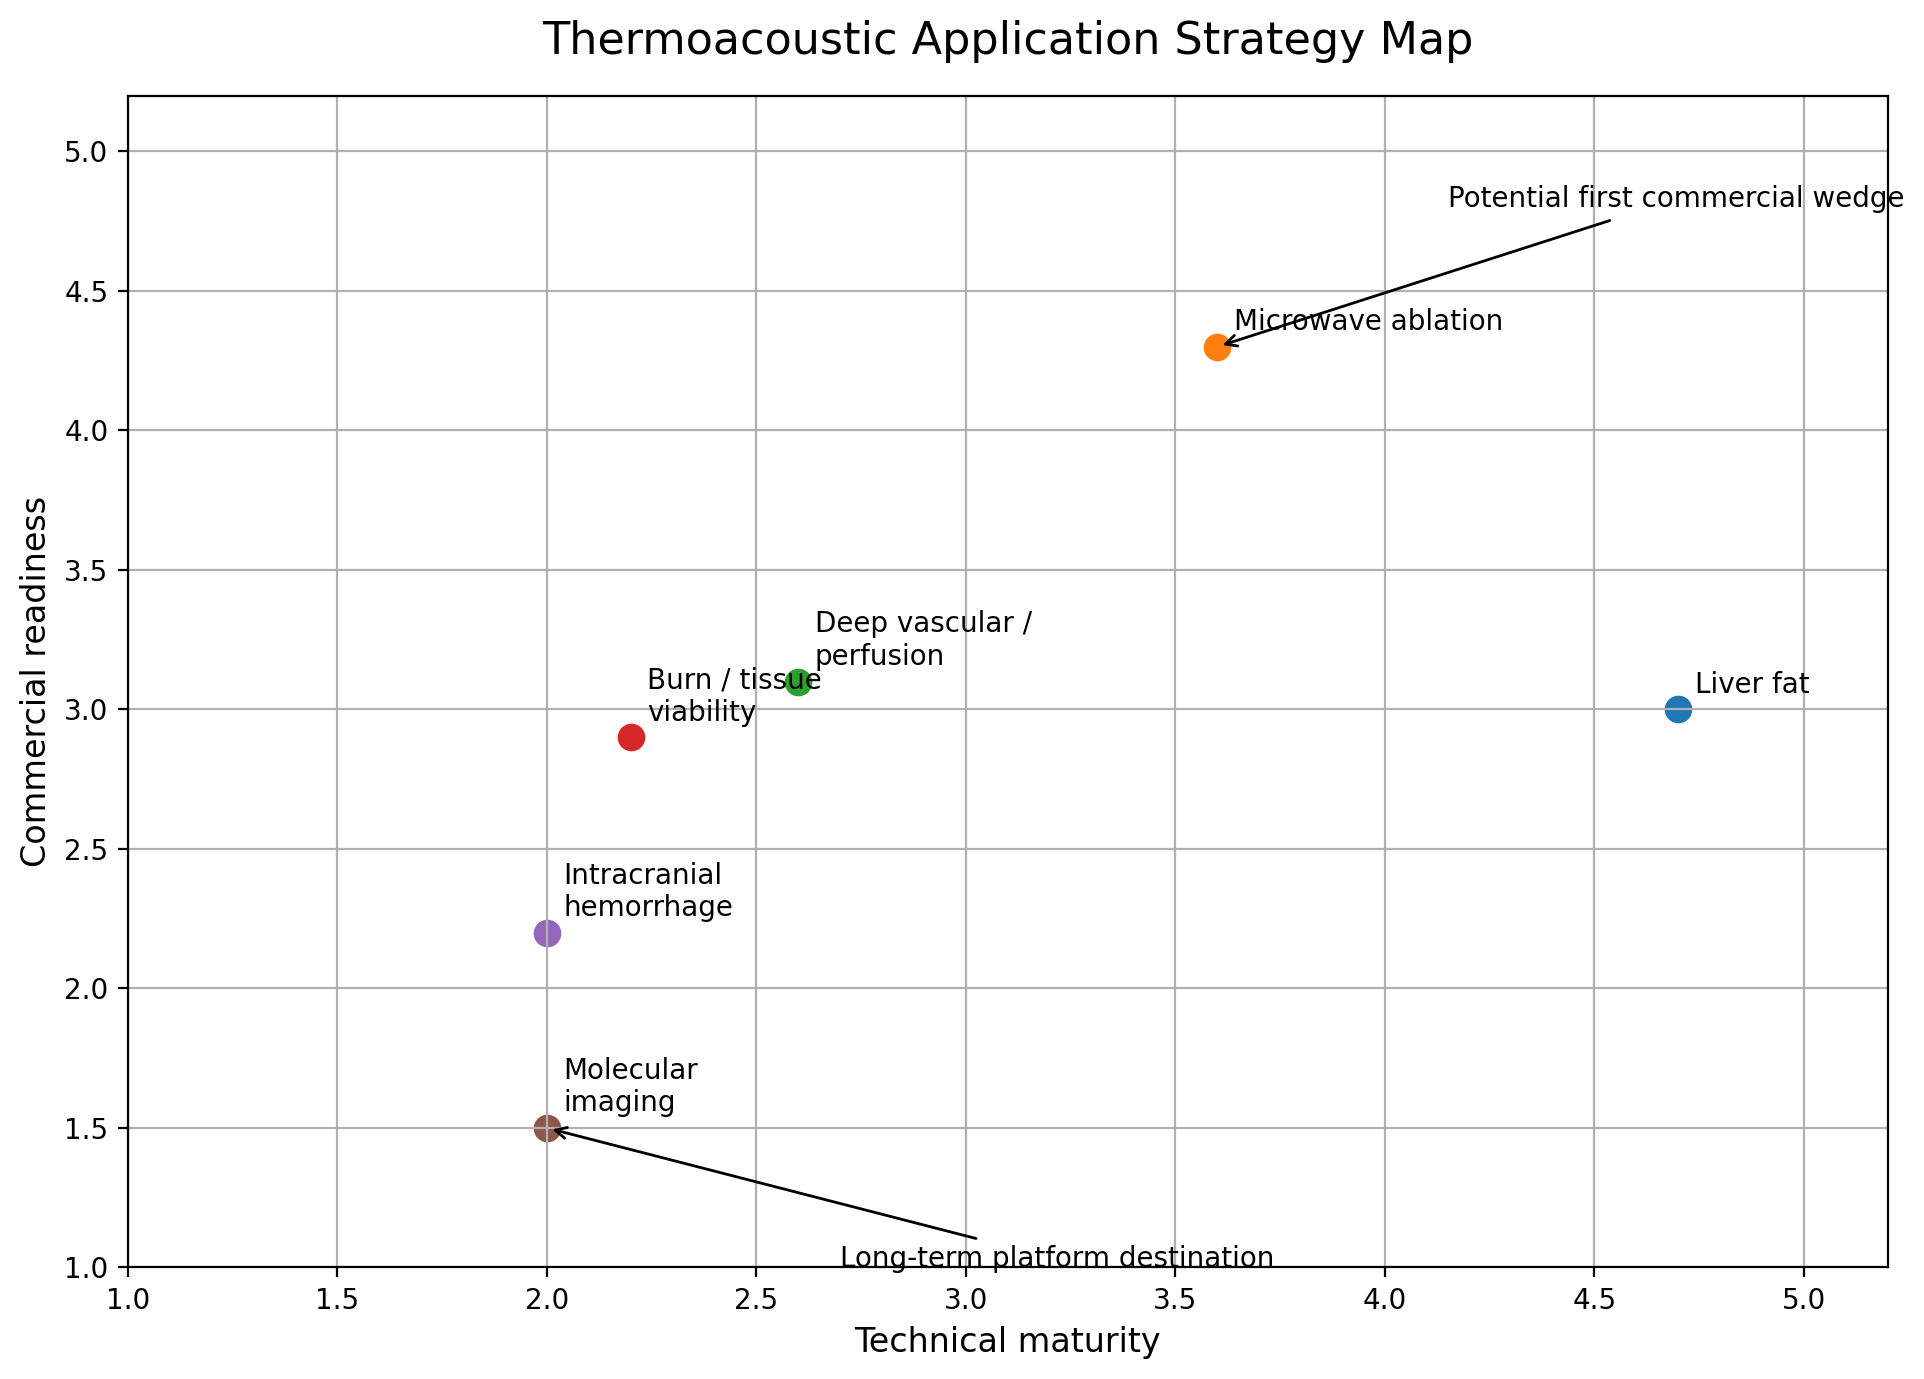
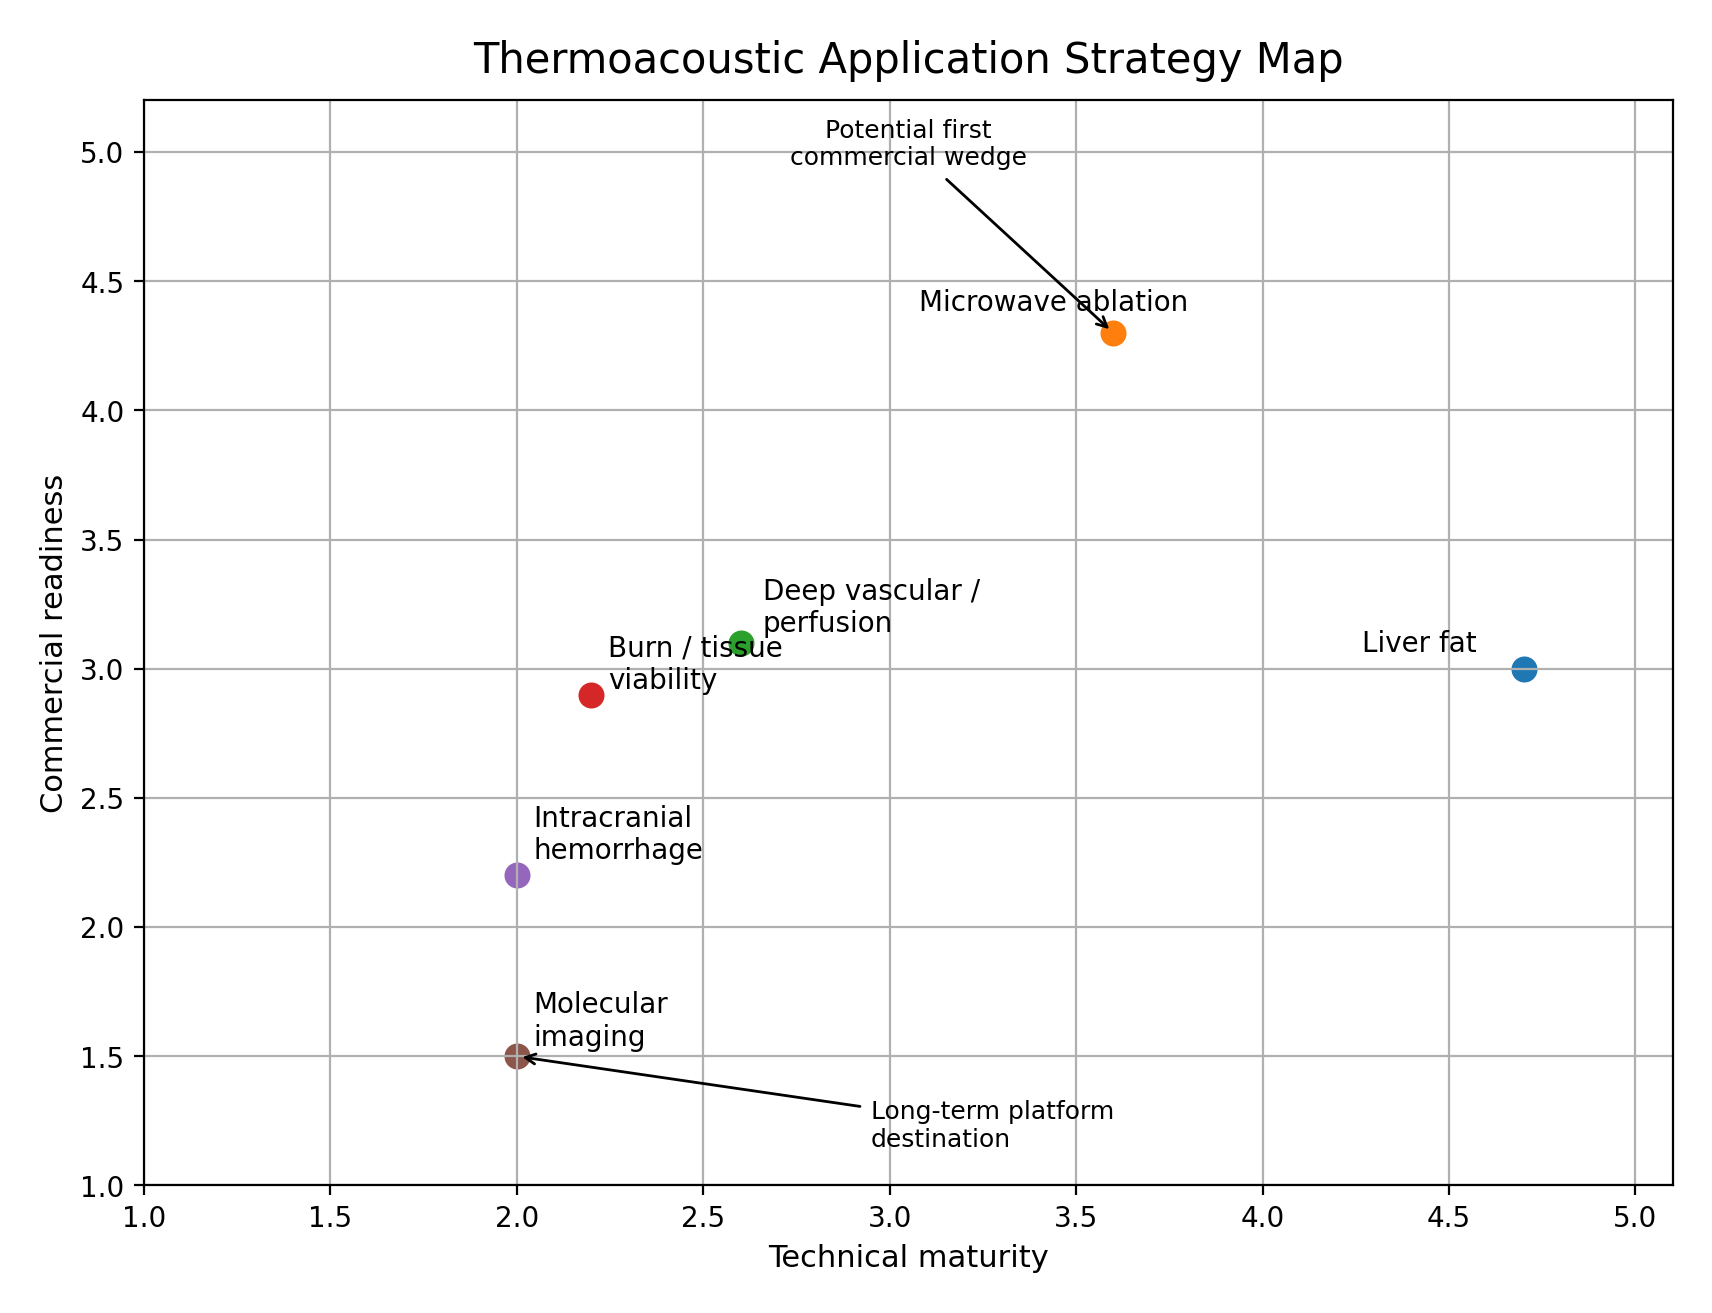
Fixed figures

diff --git a/_pages/thermoacoustic-translation.md b/_pages/thermoacoustic-translation.md
@@ -32,9 +32,15 @@ That is encouraging, because the central issue is no longer simply whether biolo
 
 *This analysis reflects my personal view, based on publicly available information and published research through August 2026. It does not represent the position of any employer or company.*
 
-![Thermoacoustics across three translation tracks.](/assets/img/ta_translation_tracks.png)
+<figure style="margin: 2rem auto; max-width: 860px;">
+  <img
+    src="/assets/img/ta_translation_tracks.png"
+    alt="Thermoacoustics across three translation tracks"
+    style="display:block; width:100%; height:auto; margin:0 auto;"
+  >
+</figure>
 
-## Track 1 — Capability
+## Track 1: Capability
 
 For many years, the central question in thermoacoustics was whether useful RF-induced acoustic signals could be generated and reconstructed from biological tissue.
 
@@ -62,7 +68,7 @@ These results do **not** mean that a general-purpose clinical thermoacoustic sca
 
 For each application, the remaining capability questions are now different.
 
-## Track 2 — Economics
+## Track 2: Economics
 
 A technically successful imaging measurement does not automatically create a valuable product.
 
@@ -93,9 +99,9 @@ It must become something closer to:
 
 > **It provides sufficient incremental clinical or economic value to justify its use relative to alternatives available at the same point of care.**
 
-That is a much higher bar — but it is the right bar.
+That is a much higher bar - but it is the right bar.
 
-## Track 3 — Adoption
+## Track 3: Adoption
 
 Clinical adoption is its own engineering problem.
 
@@ -165,9 +171,15 @@ The ranking highlights an important distinction.
 
 Those are not the same question.
 
-![Thermoacoustic application strategy map.](/assets/img/ta_application_strategy_map.png)
+<figure style="margin: 2rem auto; max-width: 860px;">
+  <img
+    src="/assets/img/ta_application_strategy_map.png"
+    alt="Thermoacoustic application strategy map"
+    style="display:block; width:100%; height:auto; margin:0 auto;"
+  >
+</figure>
 
-## Application 1 — Quantitative liver fat
+## Application 1: Quantitative liver fat
 
 ### Why it is attractive
 
@@ -205,7 +217,7 @@ It should increasingly ask:
 
 > **In which patient or workflow does TA change the clinical or economic decision compared with what the customer can already buy?**
 
-## Application 2 — Microwave-ablation monitoring
+## Application 2: Microwave-ablation monitoring
 
 This is the application that moves up most sharply when the three tracks are considered together.
 
@@ -248,7 +260,7 @@ The major problem remains Track 1: the most compelling recent work is still prec
 
 If that capability is established, the economics and adoption tracks may be comparatively favorable.
 
-## Application 3 — Vascular and perfusion imaging
+## Application 3: Vascular and perfusion imaging
 
 Blood is an appealing endogenous RF contrast source.
 
@@ -281,7 +293,7 @@ In principle, that could create information about perfusion, obstruction, or lea
 
 At present, I regard this as a **research hypothesis**, not a clinical claim. A convincing business case requires first identifying the narrow vascular use case where the new information is valuable enough to displace or complement established imaging.
 
-## Application 4 — Burn depth and tissue viability
+## Application 4: Burn depth and tissue viability
 
 Burn injury and tissue compromise can alter water content, tissue structure, and dielectric properties in ways that may be detectable with thermoacoustics.
 
@@ -291,9 +303,9 @@ The clinical question is also meaningful. Burn depth and tissue viability can in
 
 The challenge is that the product would still need to outperform clinical examination and competing imaging or monitoring approaches strongly enough to justify its use. Patient contact, coupling, and workflow around injured tissue would also require careful product design.
 
-So this remains an interesting opportunity — but one that still needs targeted validation around a clearly defined clinical use case.
+So this remains an interesting opportunity - but one that still needs targeted validation around a clearly defined clinical use case.
 
-## Application 5 — Intracranial hemorrhage
+## Application 5: Intracranial hemorrhage
 
 This is the highest-risk, highest-upside application in the current list.
 
@@ -311,7 +323,7 @@ This is therefore not the application I would choose to establish thermoacoustic
 
 It is the application I would keep pursuing if the platform becomes mature enough to attack harder problems.
 
-## Application 6 — Molecular thermoacoustic imaging
+## Application 6: Molecular thermoacoustic imaging
 
 Molecular imaging is the longest-term objective that interests me most.
 
@@ -365,7 +377,7 @@ A thermoacoustic business would need more than ownership of the basic imaging co
 - RF delivery and field control that remain predictable across real patients;
 - transducer and acquisition architectures optimized for combined ultrasound and TA;
 - reconstruction, calibration, and quantitative models validated against clinical reference standards;
-- proprietary clinical datasets that define where the measurement works — and where it does not;
+- proprietary clinical datasets that define where the measurement works - and where it does not;
 - application-specific regulatory claims and reimbursement evidence;
 - workflow integration with the platform or procedure clinicians already use;
 - and manufacturing processes, RF safety measures, service procedures, and cost structure that are difficult to reproduce from an academic prototype.
@@ -420,7 +432,7 @@ It means that building a first product is a **business-system problem**, not onl
 
 If I were allocating development resources purely to learn which business path is strongest, I would run three parallel experiments.
 
-### 1. Liver — test differentiation, not only accuracy
+### 1. Liver - test differentiation, not only accuracy
 
 Benchmark TA prospectively against MRI-PDFF **and** leading point-of-care alternatives, with particular attention to the patients and longitudinal-use cases where current methods struggle.
 
@@ -428,7 +440,7 @@ The question becomes:
 
 > **Where does TA create incremental clinical value?**
 
-### 2. Ablation — test whether TA can predict the treatment boundary that matters clinically
+### 2. Ablation - test whether TA can predict the treatment boundary that matters clinically
 
 Move from elegant energy-deposition images toward a direct endpoint:
 
@@ -436,9 +448,9 @@ Move from elegant energy-deposition images toward a direct endpoint:
 
 If yes, the economic and adoption arguments become much stronger.
 
-### 3. Vascular — identify the application before optimizing the platform
+### 3. Vascular - identify the application before optimizing the platform
 
-Measure blood-to-background contrast, useful depth, spatial resolution, and robustness across 434 MHz, 915 MHz, and 2.45 GHz — but do it around specific clinical questions.
+Measure blood-to-background contrast, useful depth, spatial resolution, and robustness across 434 MHz, 915 MHz, and 2.45 GHz - but do it around specific clinical questions.
 
 The objective should not be to prove that TA can image blood.
 
@@ -467,7 +479,7 @@ If that first application succeeds, thermoacoustics can become more than a singl
 ## References
 
 1. Cho JH, Bull CM, Thornton M, Gao J, Rubin JM, Steinberg I.  
-   **[Thermoacoustic Ultrasound Assessment of Liver Steatosis—A Novel Approach for MASLD Diagnosis.](https://doi.org/10.3390/diagnostics16050804)**  
+   **[Thermoacoustic Ultrasound Assessment of Liver Steatosis-A Novel Approach for MASLD Diagnosis.](https://doi.org/10.3390/diagnostics16050804)**  
    _Diagnostics_. 2026;16:804.
 
 2. Zheng Z, Huang L, Jiang H.  
@@ -495,7 +507,7 @@ If that first application succeeds, thermoacoustics can become more than a singl
    See also Medtronic system documentation identifying the HP generator as a 150 W, 2.45 GHz source.
 
 8. U.S. Food and Drug Administration.  
-   **[BioTraceIO Precision — 510(k) K243084.](https://www.accessdata.fda.gov/cdrh_docs/pdf24/K243084.pdf)**  
+   **[BioTraceIO Precision - 510(k) K243084.](https://www.accessdata.fda.gov/cdrh_docs/pdf24/K243084.pdf)**  
    2025.
 
 9. Li J, Wu Z, Peng C, Song L, Luo Y.  
